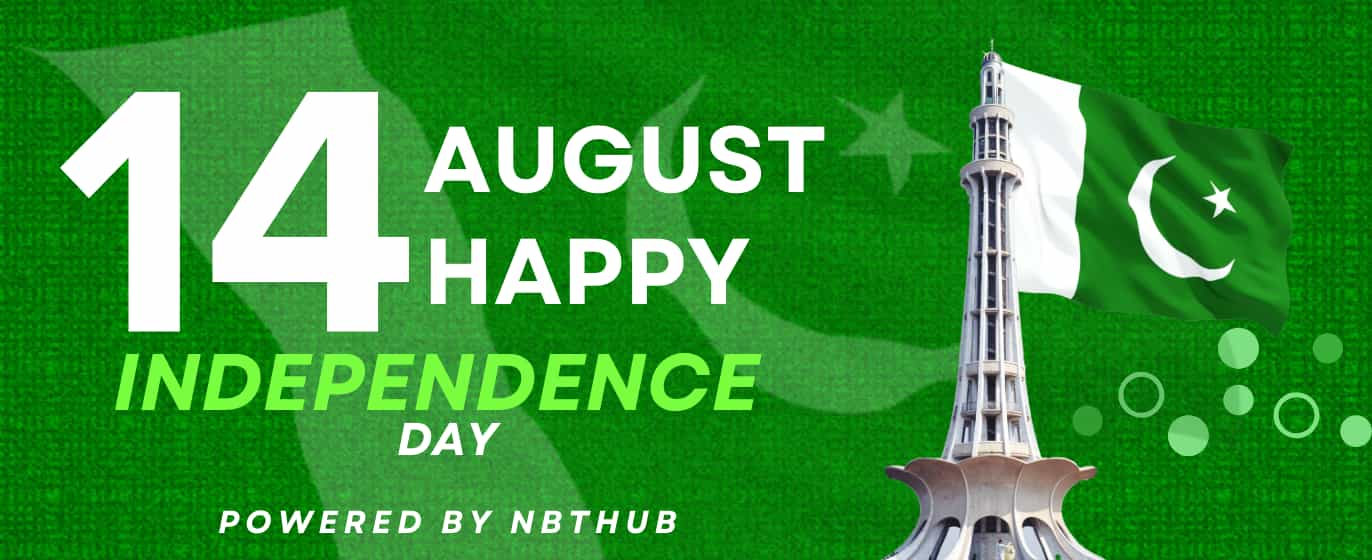
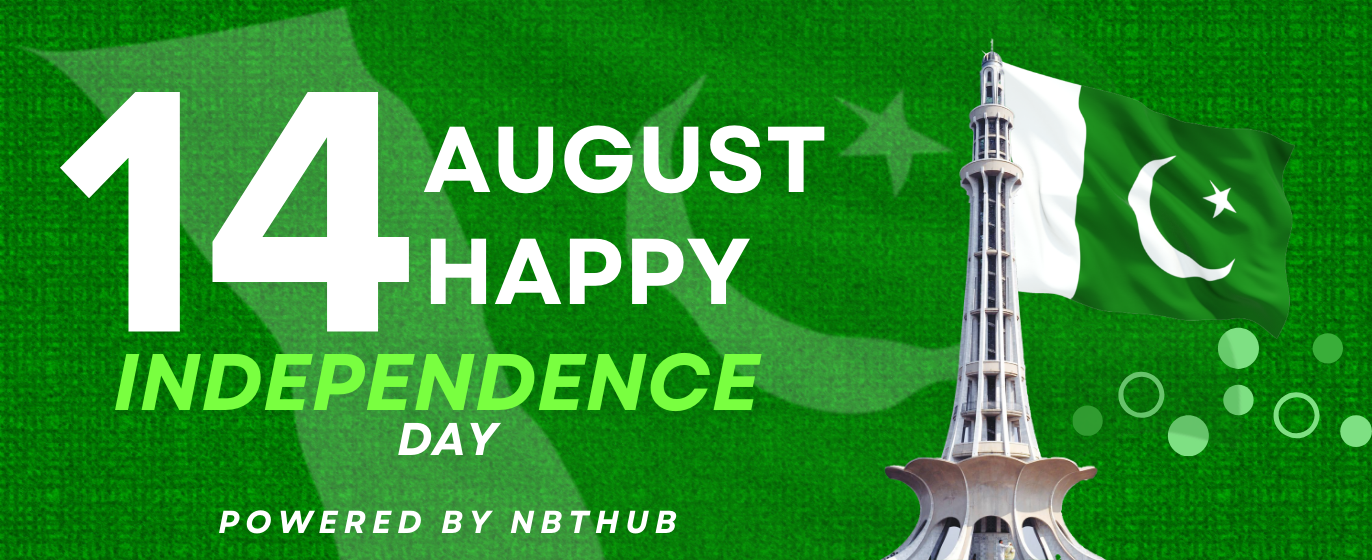
few changes made

diff --git a/Frontend/src/pages/OrderHistory.vue b/Frontend/src/pages/OrderHistory.vue
@@ -2,29 +2,33 @@
   <div class="mobile-spacing">
     <div class="relative mt-2">
       <!-- Back Arrow Button -->
-      <button
-        @click="goBack"
-        class="absolute left-0 top-1/2 transform -translate-y-1/2"
-      >
-        <svg
-          xmlns="http://www.w3.org/2000/svg"
-          fill="none"
-          viewBox="0 0 24 24"
-          stroke-width="2"
-          stroke="currentColor"
-          class="w-4 h-4 text-gray-700 hover:text-gray-900"
-        >
-          <path
-            stroke-linecap="round"
-            stroke-linejoin="round"
-            d="M15 19l-7-7 7-7"
-          />
-        </svg>
-      </button>
 
-      <!-- Orders Title -->
-      <div class="flex justify-center">
+      <!-- Orders Title and Refresh Button -->
+      <div class="flex justify-between items-center">
+        <button @click="goBack" class="">
+          <svg
+            xmlns="http://www.w3.org/2000/svg"
+            fill="none"
+            viewBox="0 0 24 24"
+            stroke-width="2"
+            stroke="currentColor"
+            class="w-4 h-4 text-gray-700 hover:text-gray-900"
+          >
+            <path
+              stroke-linecap="round"
+              stroke-linejoin="round"
+              d="M15 19l-7-7 7-7"
+            />
+          </svg>
+        </button>
+
         <h1 class="text-center text-xl font-semibold">Orders</h1>
+        <button
+          @click="refreshOrders"
+          class="bg-yellow-500 text-white px-4 py-2 rounded"
+        >
+          Refresh
+        </button>
       </div>
     </div>
 
@@ -62,9 +66,9 @@
           :class="{
             'bg-red-500 text-white text-sm rounded-full px-4 py-1 text-center':
               order.status === 'pending',
-            'bg-yellow-500 text-white text-sm  rounded-full px-4 py-1 text-center':
+            'bg-yellow-500 text-white text-sm rounded-full px-4 py-1 text-center':
               order.status === 'preparing',
-            'bg-green-500 text-white text-sm  rounded-full px-4 py-1 text-center':
+            'bg-green-500 text-white text-sm rounded-full px-4 py-1 text-center':
               order.status === 'delivered',
           }"
         >
@@ -97,6 +101,10 @@ async function getOrderDetails() {
   } catch (error) {
     console.error(error);
   }
+}
+
+async function refreshOrders() {
+  await getOrderDetails();
 }
 
 onMounted(async () => {

diff --git a/Frontend/src/components/NavBar.vue b/Frontend/src/components/NavBar.vue
@@ -23,7 +23,9 @@
         </button>
       </div>
       <div class="text-xl md:text-2xl font-bold">
-        <button @click="goToHome">Logo</button>
+        <button @click="goToHome">
+          <img src="/Shop365-Logo Grey.png" class="w-auto h-4" alt="" />
+        </button>
       </div>
       <div class="hidden md:flex gap-5 text-lg">
         <router-link to="/home" class="hover:text-yellow-500 cursor-pointer"
@@ -67,9 +69,10 @@
     </nav>
 
     <!-- Sidebar for mobile screens -->
+    <!-- Sidebar for mobile screens -->
     <transition name="slide-left">
       <div v-if="sidebarOpen" class="fixed inset-0 bg-black/5 z-40 flex">
-        <div class="bg-white w-64 h-full p-5 shadow-lg">
+        <div class="sidebar bg-white w-64 h-full p-5 shadow-lg">
           <button
             @click="toggleSidebar"
             class="focus:outline-none text-black mb-4"
@@ -110,7 +113,7 @@
 </template>
 
 <script setup>
-import { ref } from "vue";
+import { ref, onMounted, onBeforeUnmount } from "vue";
 import { useRouter } from "vue-router";
 
 const router = useRouter();
@@ -123,6 +126,22 @@ const toggleSidebar = () => {
 const goToHome = () => {
   router.push("/home/categories");
 };
+
+// Close the sidebar when clicking outside
+const handleClickOutside = (event) => {
+  const sidebar = document.querySelector(".sidebar");
+  if (sidebar && !sidebar.contains(event.target) && sidebarOpen.value) {
+    toggleSidebar();
+  }
+};
+
+onMounted(() => {
+  document.addEventListener("mousedown", handleClickOutside);
+});
+
+onBeforeUnmount(() => {
+  document.removeEventListener("mousedown", handleClickOutside);
+});
 </script>
 
 <style scoped>

diff --git a/Frontend/src/pages/Splash.vue b/Frontend/src/pages/Splash.vue
@@ -9,15 +9,17 @@
       <div class="flex flex-col space-y-5 text-center md:text-left">
         <div class="flex flex-col space-y-5">
           <h1
-            class="text-3xl md:text-4xl px-2 text-left font-semibold text-slate-800"
+            class="text-4xl md:text-4xl px-2 text-left font-semibold text-slate-800"
           >
-            Welcome to our TownService App
+            Welcome to our
+            <span class="text-yellow-500 font-bold">Shop</span
+            ><span class="font-bold">365</span> App
           </h1>
           <p class="text-slate-600 hidden md:block">
-            Lorem ipsum dolor sit amet consectetur adipisicing elit. Veniam
-            perferendis ipsa quidem sapiente quam nulla rem ducimus similique,
-            ipsum dicta doloribus quibusdam explicabo quaerat nisi iusto
-            deserunt unde ad vel.
+            Shop365 is your ultimate companion for seamless living. Whether
+            you're craving a meal, need groceries or household items, or require
+            professional home services like plumbing, electrical work, or
+            carpentry, Shop365 has you covered.
           </p>
           <h2 class="font-semibold text-slate-700 text-left px-2">
             Powered by NBT-HUB

diff --git a/Frontend/index.html b/Frontend/index.html
@@ -2,9 +2,9 @@
 <html lang="en">
   <head>
     <meta charset="UTF-8" />
-    <link rel="icon" type="image/svg+xml" href="/vite.svg" />
+    <link rel="icon" type="image/svg+xml" href="/Appicon.svg" />
     <meta name="viewport" content="width=device-width, initial-scale=1.0" />
-    <title>Vite + Vue</title>
+    <title>The Shop 365</title>
   </head>
   <body>
     <div id="app"></div>

diff --git a/Frontend/src/pages/Categories.vue b/Frontend/src/pages/Categories.vue
@@ -2,7 +2,7 @@
   <div class="mobile-spacing">
     <div class="w-full flex justify-center mt-6">
       <img
-        src="/2.png"
+        src="/freecompress-2.png"
         alt="Independence Day"
         class="w-full max-w-3xl rounded-lg shadow-lg"
       />
